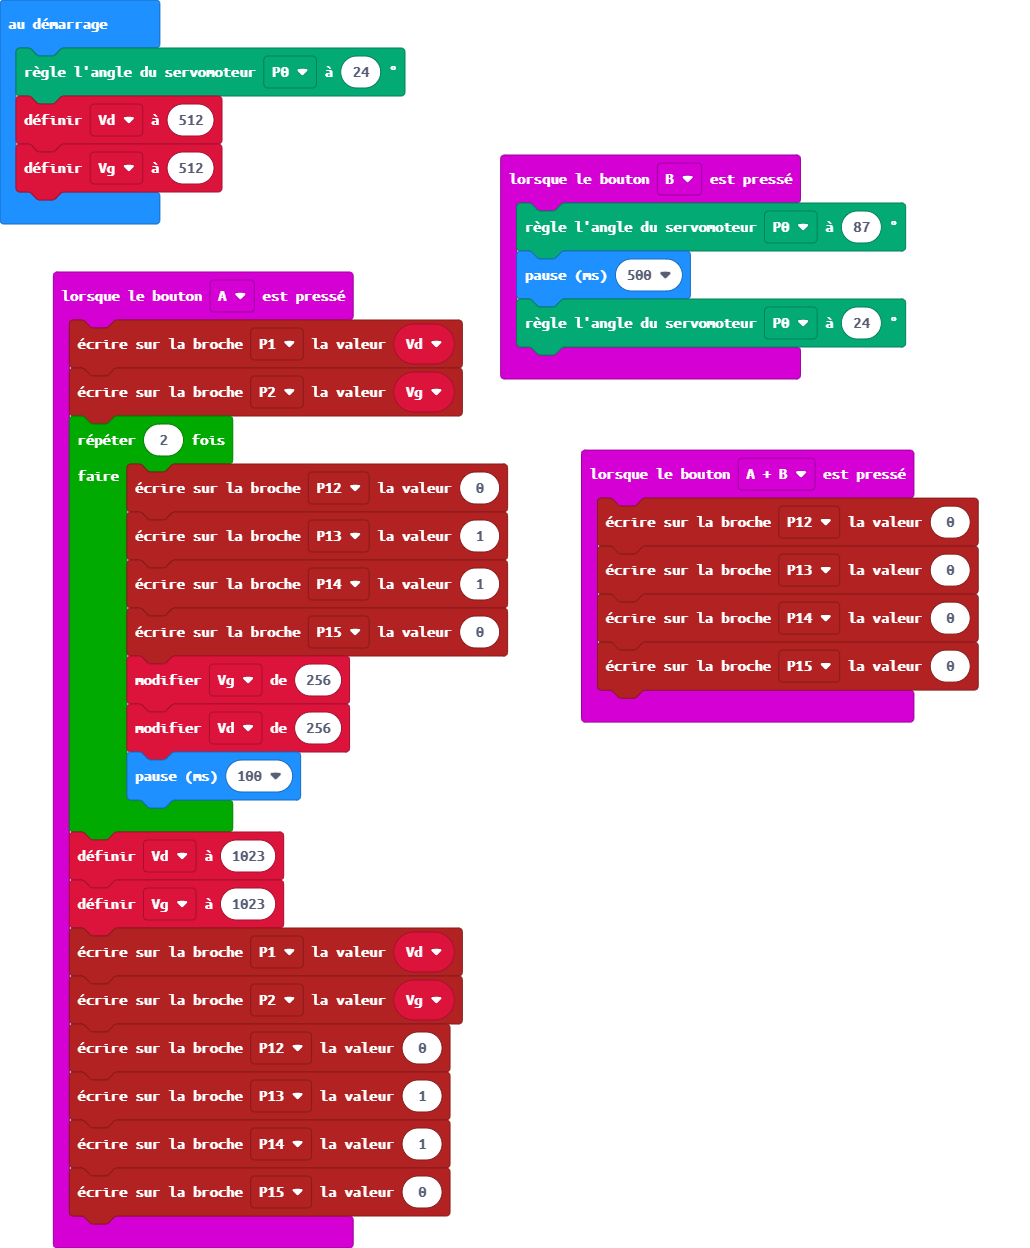
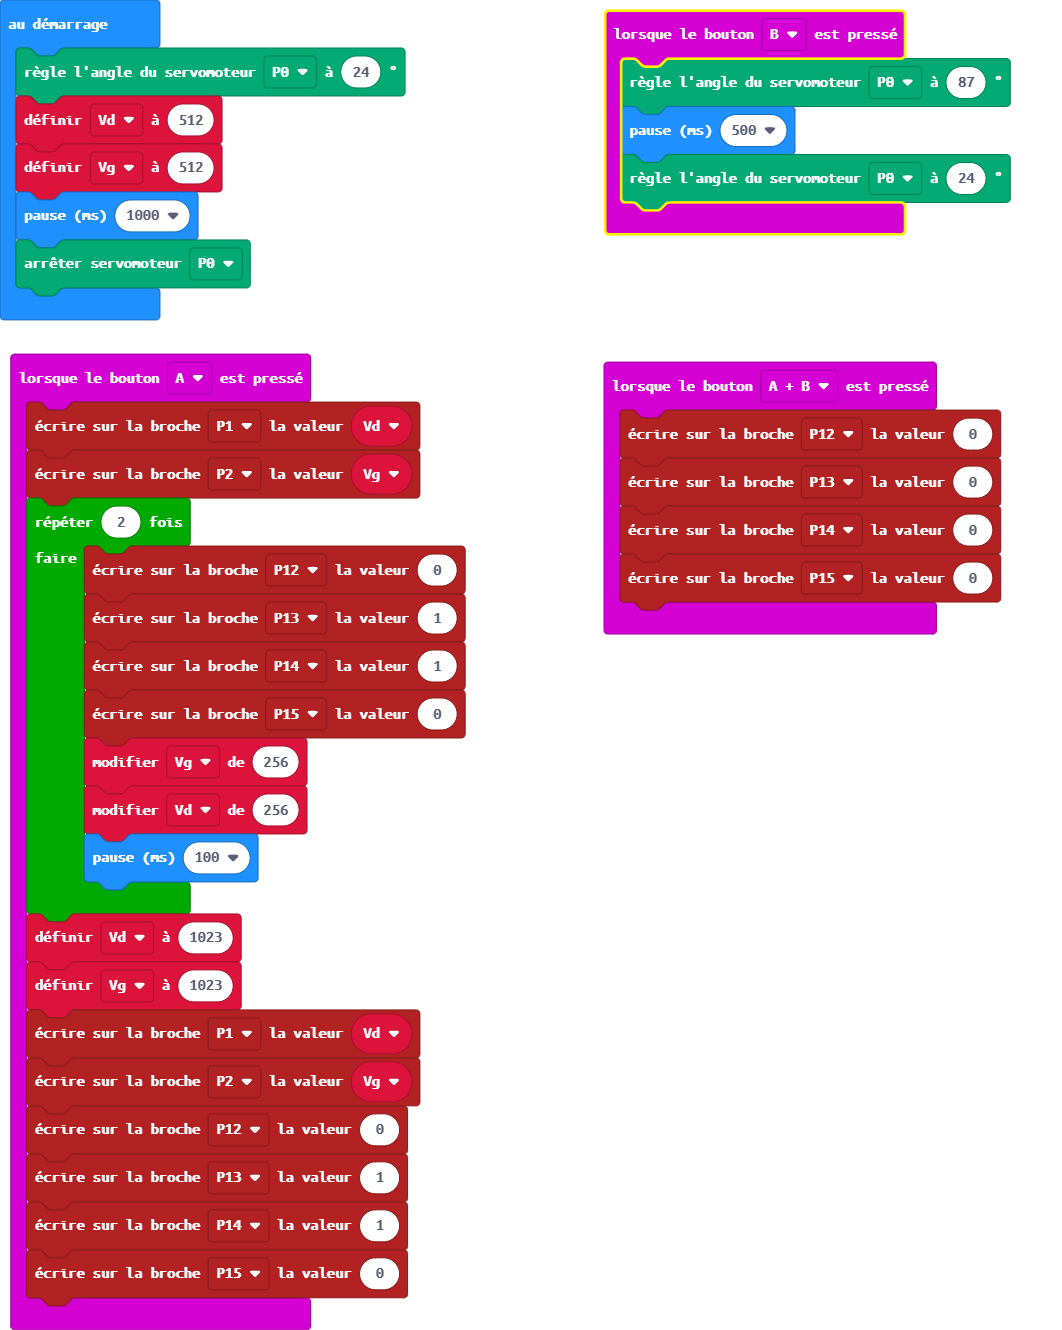
Mise à jour main.blocks, main.ts

diff --git a/main.ts b/main.ts
@@ -35,3 +35,5 @@ let Vd = 0
 servos.P0.setAngle(24)
 Vd = 512
 Vg = 512
+basic.pause(1000)
+servos.P0.stop()
